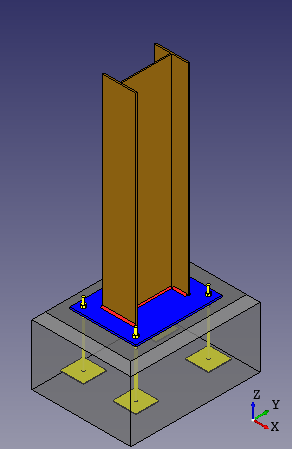
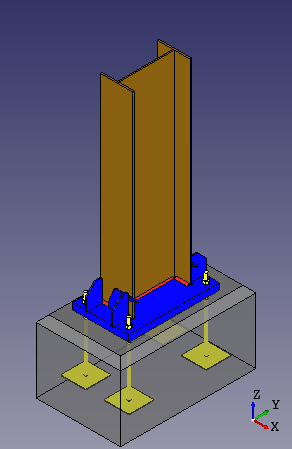
bp calculation

Changed region(s): [[0.0925, 0.0935, 0.8938, 0.9978], [0.2158, 0.7171, 0.2466, 0.7483]]

diff --git a/design_type/connection/base_plate_connection.py b/design_type/connection/base_plate_connection.py
@@ -1363,8 +1363,9 @@ class BasePlateConnection(MomentConnection, IS800_2007, IS_5624_1993, IS1367_Par
         self.dp_design_method = str(design_dictionary[KEY_DP_DESIGN_METHOD])
         self.dp_bp_method = str(design_dictionary[KEY_DP_DESIGN_BASE_PLATE])
 
-        # properties of the column section
+        # properties of the column sections
 
+        # Rolled sections
         self.column_properties = Column(designation=self.dp_column_designation, material_grade=self.dp_column_material)
         self.column_D = self.column_properties.depth
         self.column_bf = self.column_properties.flange_width
@@ -1372,6 +1373,8 @@ class BasePlateConnection(MomentConnection, IS800_2007, IS_5624_1993, IS1367_Par
         self.column_tw = self.column_properties.web_thickness
         self.column_r1 = self.column_properties.root_radius
         self.column_r2 = self.column_properties.toe_radius
+
+        # Hollow sections
 
         # other attributes
         self.gamma_m0 = self.cl_5_4_1_Table_5["gamma_m0"]["yielding"]  # gamma_mo = 1.10
@@ -1440,14 +1443,14 @@ class BasePlateConnection(MomentConnection, IS800_2007, IS_5624_1993, IS1367_Par
         # If the shear force acting along any axis of the column is large (braced frames or buildings designed for seismic forces, heavy winds etc.),
         # the minimum recommended end/edge distance is six times the anchor diameter (min_end_distance = 6 * anchor_diameter).
         # This is to prevent the side bursting/face break-out of the concrete [Reference: AISC Design Guide 1, section 3.2.2, page 22]
-        if self.load_shear_major or self.load_shear_minor > 0:
-            min_end_distance = 6 * self.anchor_dia_provided  # TODO: check if shear is large enough
-            min_end_distance = round_up(min_end_distance, 5)  # mm
-
-            self.end_distance = max(self.end_distance, min_end_distance)
-            # TODO: give suitable log messages
-        else:
-            pass
+        # if self.load_shear_major or self.load_shear_minor > 0:
+        #     min_end_distance = 6 * self.anchor_dia_provided  # TODO: check if shear is large enough
+        #     min_end_distance = round_up(min_end_distance, 5)  # mm
+        #
+        #     self.end_distance = max(self.end_distance, min_end_distance)
+        #     TODO: give suitable log messages
+        # else:
+        #     pass
 
         # TODO: add max end, edge distance check after the plate thk check
         # self.end_distance_max = self.cl_10_2_4_3_max_edge_dist([self.plate_thk], self.dp_bp_fy, self.dp_detail_is_corrosive)
@@ -1468,7 +1471,7 @@ class BasePlateConnection(MomentConnection, IS800_2007, IS_5624_1993, IS1367_Par
         # considering clearance equal to 1.5 times the edge distance (on each side) along the width of the base plate
         if self.connectivity == 'Welded Column Base' or 'Moment Base Plate':
             self.bp_length_min = round_up(self.column_D + 2 * (2 * self.end_distance), 5)  # mm
-            self.bp_width_min = round_up(self.column_bf + 1.5 * self.edge_distance + 1.5 * self.edge_distance, 5)  # mm
+            self.bp_width_min = round_up(self.column_bf + (1.5 * self.edge_distance) + (1.5 * self.edge_distance), 5)  # mm
 
         elif self.connectivity == 'Welded+Bolted Column Base':
             pass
@@ -1696,7 +1699,7 @@ class BasePlateConnection(MomentConnection, IS800_2007, IS_5624_1993, IS1367_Par
             # Assumption: The minimum number of anchor bolts is 2, for stability purpose.
             self.tension_bolts_req = max(self.tension_demand_anchor / self.tension_capacity_anchor, 2)
 
-            # if the number of bolts required to resist tension exceeds 2 in number, then the loop will check
+            # if the number of bolts required to resist tension exceeds 3 in number, then the loop will check
             # for a higher diameter of bolt from the given list of anchor diameters by the user.
             n = 1
             while self.tension_bolts_req > 3:  # the maximum number of bolts that can be accommodated is 3
@@ -1786,7 +1789,7 @@ class BasePlateConnection(MomentConnection, IS800_2007, IS_5624_1993, IS1367_Par
                                                                                                          safety_factor_parameter=self.dp_weld_fab)  # N
                     self.tension_capacity_anchor_uplift = round(self.tension_capacity_anchor_uplift / 1000, 2)  # kN
 
-                    self.anchor_nos_uplift = max(self.load_axial_tension / self.tension_capacity_anchor_uplift, 2)
+                    self.anchor_nos_uplift = max(((self.load_axial_tension * 10 ** -3) / self.tension_capacity_anchor_uplift), 2)
                     n += 1
 
                     self.anchor_dia_uplift = self.table1(i)[0]  # updating the initialised anchor diameter for uplift force
@@ -2034,6 +2037,7 @@ class BasePlateConnection(MomentConnection, IS800_2007, IS_5624_1993, IS1367_Par
                 # length of anchor for cast-in situ anchor bolts (k = 15.5)
                 self.anchor_length_provided = (self.tension_capacity_anchor * 1000 /
                                                (15.5 * math.sqrt(self.bearing_strength_concrete / 0.45))) ** (1 / 1.5)  # mm
+                self.anchor_length_provided = round_up(self.anchor_length_provided, 5)
                 self.anchor_length_provided = max(self.anchor_length_provided, self.anchor_length_min)
 
             logger.info(": [Anchor Bolt Length] The length of the anchor bolt is computed assuming the anchor bolt is casted in-situ"
